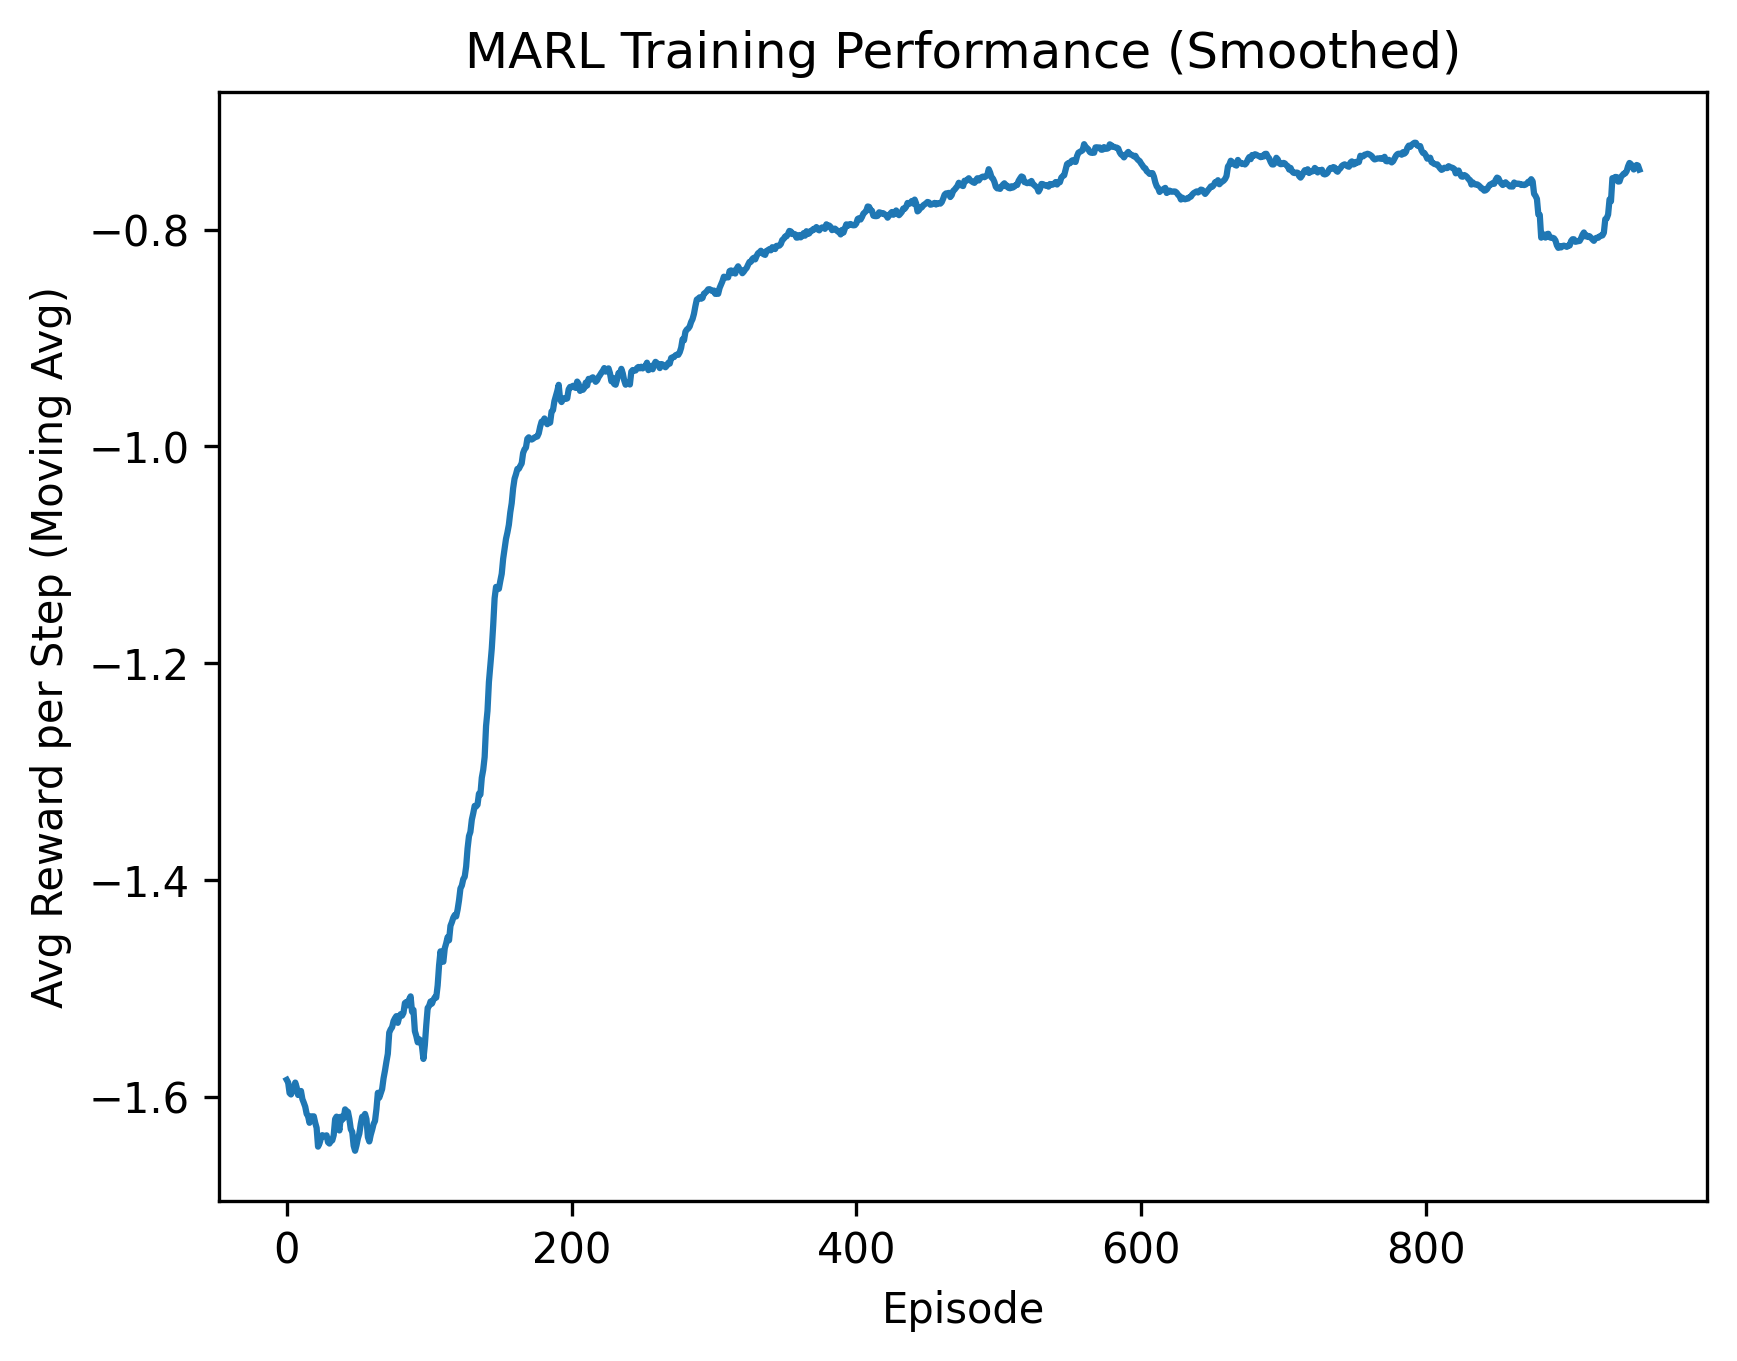
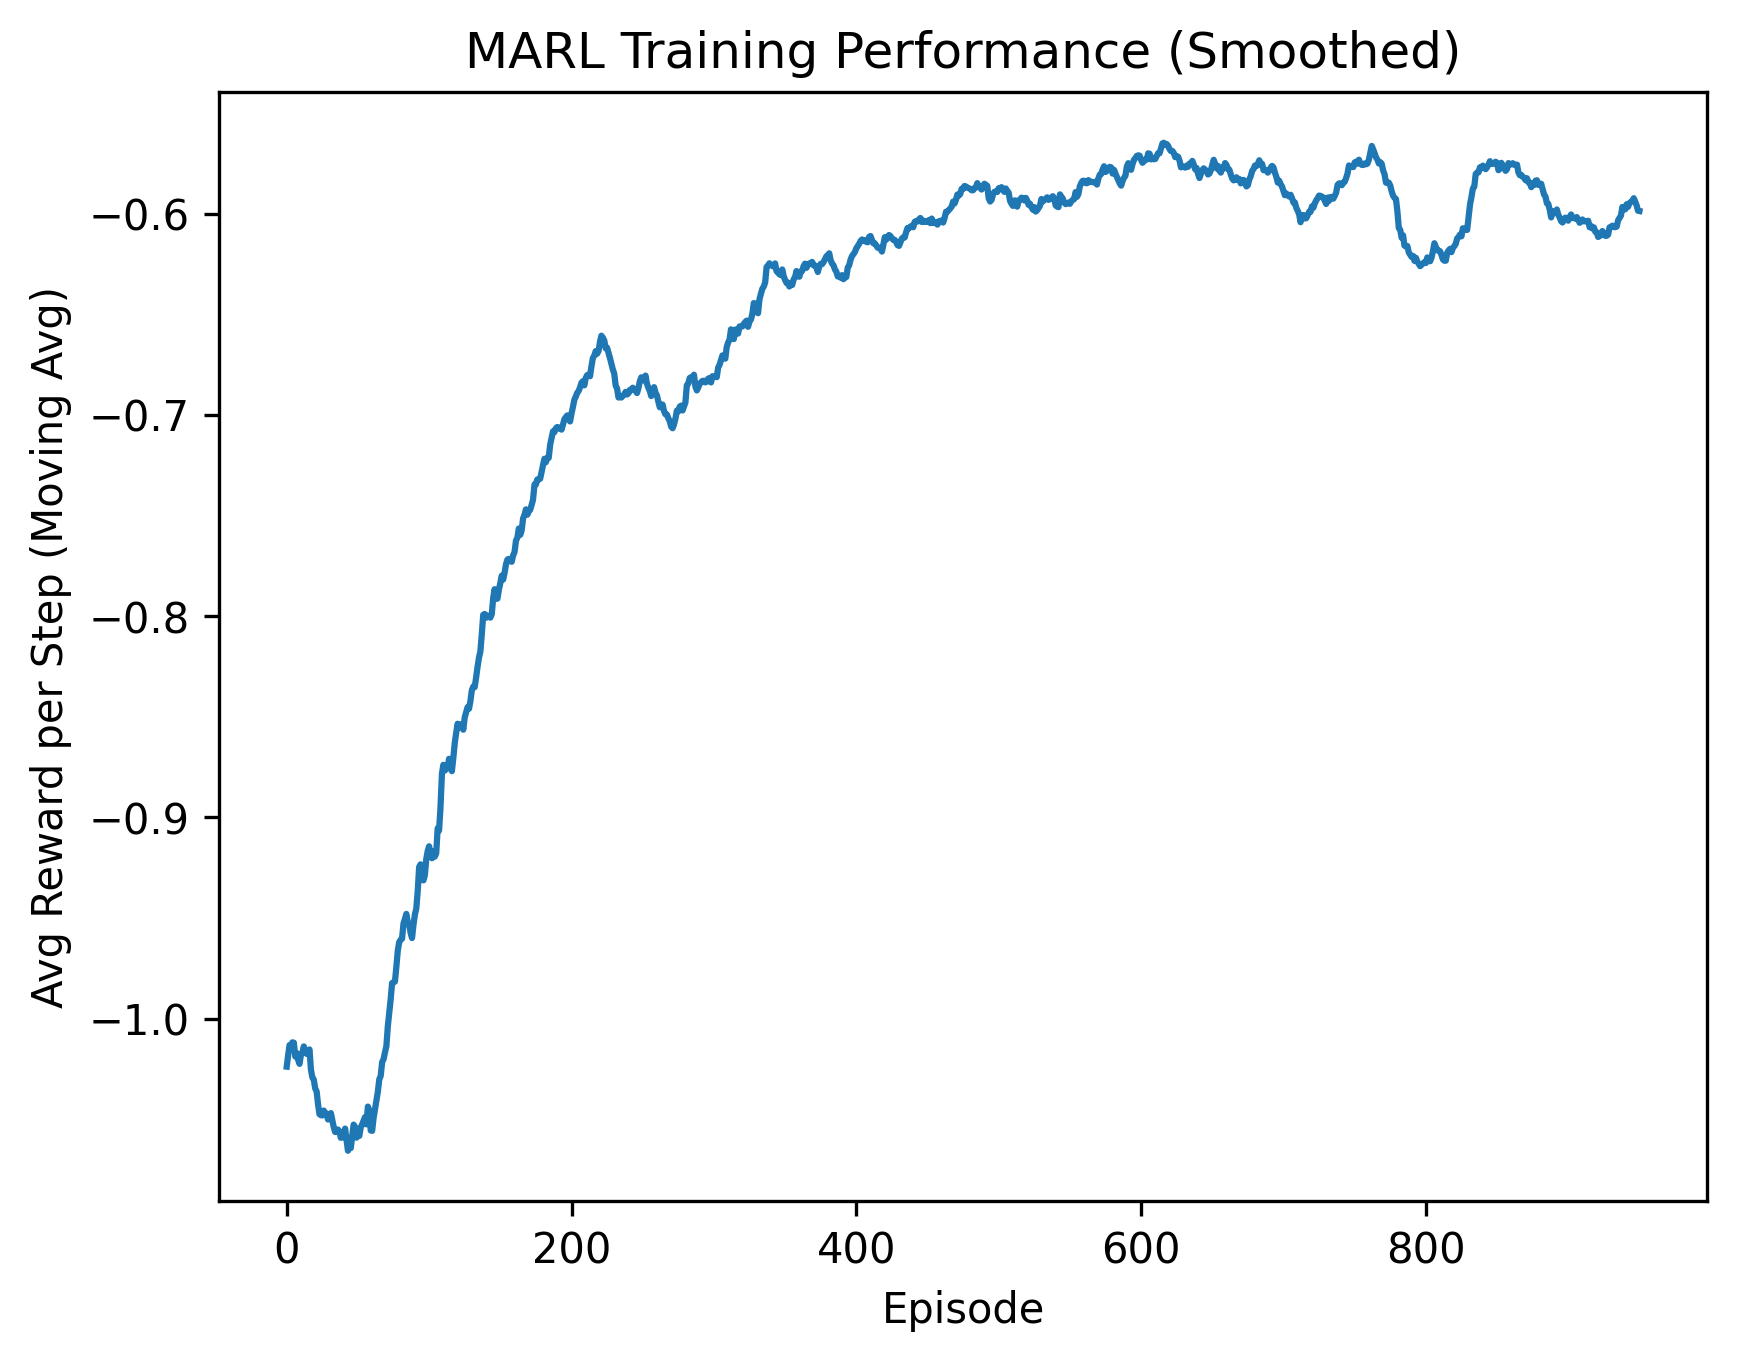
finalize single agent_v1

diff --git a/traffic_env.py b/traffic_env.py
@@ -8,16 +8,20 @@ from gymnasium.spaces import Discrete, Box
 
 class TrafficIntersectionEnv(Env):
     metadata = {"render_modes": []}
-
+    def _get_obs(self):
+        return np.array([self.queue_NS, self.queue_EW, self.phase], dtype=np.int32)
     def __init__(self):
         super().__init__()
 
-        # Actions:
-        # 0 = NS green
-        # 1 = EW green
-        # 2 = All red (transition)
-        # 3 = Pedestrian mode (optional)
+        # Action = “Should I switch?”
+        # 0 → Keep current phase
+        # 1 → Request switch
+
         self.action_space = Discrete(2)
+        self.min_green = 5
+        self.phase_timer = 0
+        self.max_red = 20
+        self.red_timer = 0
 
         # Observations:
         # [queue_NS, queue_EW, phase]
@@ -30,75 +34,106 @@ class TrafficIntersectionEnv(Env):
         # internal states
         self.queue_NS = 0
         self.queue_EW = 0
-        self.phase = 0      # current signal phase (0–3)
+        self.phase = 0      
         self.timestep = 0
 
         # stats
         self.total_waiting_time = 0
 
         # config
-        self.arrival_rate_NS = 0.25
-        self.arrival_rate_EW = 0.25
-        self.pass_rate = 1
-        self.max_steps = 200
+        self.arrival_rate_NS = 0.9
+        self.arrival_rate_EW = 0.1
+        self.pass_rate = 2
 
 
 
     def reset(self, seed=None, options=None):
-        self.prev_phase = 0
         super().reset(seed=seed)
         self.queue_NS = 0
         self.queue_EW = 0
         self.phase = 0
         self.timestep = 0
         self.total_waiting_time = 0
+        self.phase_timer = 0
+        self.red_timer = 0
         return self._get_obs(), {}
 
 
 
     def step(self, action):
         self.timestep += 1
-        self.phase = action
-        self.queue_NS = min(self.queue_NS, 50)
-        self.queue_EW = min(self.queue_EW, 50)
-        self.prev_phase = 0
 
-        # spawn new vehicles
+        # clip queues to observation bounds
+        self.queue_NS = np.clip(self.queue_NS, 0, 50)
+        self.queue_EW = np.clip(self.queue_EW, 0, 50)
+
+        prev_phase = self.phase
+
+        # ----------------------------
+        # Phase control logic
+        # ----------------------------
+
+        # request phase change
+        if action != self.phase:
+            if self.phase_timer >= self.min_green:
+                self.phase = action
+                self.phase_timer = 0
+                self.red_timer = 0
+            else:
+                self.phase_timer += 1
+                self.red_timer += 1
+        else:
+            # stay in same phase
+            self.phase_timer += 1
+            self.red_timer += 1
+
+        # force switch if max-red exceeded
+        if self.red_timer >= self.max_red and self.phase_timer >= self.min_green:
+            self.phase = 1 - self.phase
+            self.phase_timer = 0
+            self.red_timer = 0
+
+        # ----------------------------
+        # Traffic dynamics
+        # ----------------------------
+
+        # spawn vehicles
         if np.random.rand() < self.arrival_rate_NS:
             self.queue_NS += 1
         if np.random.rand() < self.arrival_rate_EW:
             self.queue_EW += 1
 
-        # cars pass if green
-        if action == 0:    # NS green
+        # vehicles pass (ONCE per step, based on actual phase)
+        if self.phase == 0:      # NS green
             self.queue_NS = max(0, self.queue_NS - self.pass_rate)
-        elif action == 1:  # EW green
-            self.queue_EW = max(0, self.queue_EW - self.pass_rate)
-        if action == 0:
-            self.queue_NS = max(0, self.queue_NS - self.pass_rate)
-        elif action == 1:
+        elif self.phase == 1:    # EW green
             self.queue_EW = max(0, self.queue_EW - self.pass_rate)
 
-        # waiting time accumulates
+        # ----------------------------
+        # Reward
+        # ----------------------------
+
+        switch_penalty = -0.2 if self.phase != prev_phase else 0.0
+        reward = -(self.queue_NS + self.queue_EW) + switch_penalty
+
+        # stats
         self.total_waiting_time += (self.queue_NS + self.queue_EW)
-        switch_penalty = 0
-        if action != self.prev_phase:
-            switch_penalty = -0.5
-        self.prev_phase = action
-
-
-        # reward = - (total queue + waiting)
-        reward = - (self.queue_NS + self.queue_EW) + switch_penalty
-
 
         terminated = False
-        truncated = self.timestep >= self.max_steps
+        truncated = False
 
         return self._get_obs(), reward, terminated, truncated, {}
 
+        # --------------------------------------------------------
 
-    # --------------------------------------------------------
 
-    def _get_obs(self):
-        return np.array([self.queue_NS, self.queue_EW, self.phase], dtype=np.int32)
 
+    def render(self):
+        print(
+            f"t={self.timestep} | "
+            f"Phase={self.phase} | "
+            f"NS={self.queue_NS} EW={self.queue_EW}"
+        )
+
+    def close(self):
+        pass

diff --git a/test_env.py b/test_env.py
@@ -1,0 +1,26 @@
+import gymnasium as gym
+import traffic_env_gym
+
+env = gym.make("TrafficIntersection-v0")
+env = gym.wrappers.TimeLimit(env, max_episode_steps=200)
+env = gym.wrappers.RecordEpisodeStatistics(env)
+
+obs, info = env.reset()
+done = False
+
+while not done:
+    # random or fixed action
+    action = env.action_space.sample()
+
+    obs, reward, terminated, truncated, info = env.step(action)
+    done = terminated or truncated
+
+    print(
+        f"t={env.unwrapped.timestep:3d} | "
+        f"Phase={env.unwrapped.phase} | "
+        f"NS={env.unwrapped.queue_NS:2d} "
+        f"EW={env.unwrapped.queue_EW:2d}"
+    )
+
+
+env.close()

diff --git a/traffic_env_gym.py b/traffic_env_gym.py
@@ -1,0 +1,6 @@
+from gymnasium.envs.registration import register
+
+register(
+    id="TrafficIntersection-v0",
+    entry_point="traffic_env:TrafficIntersectionEnv",
+)
